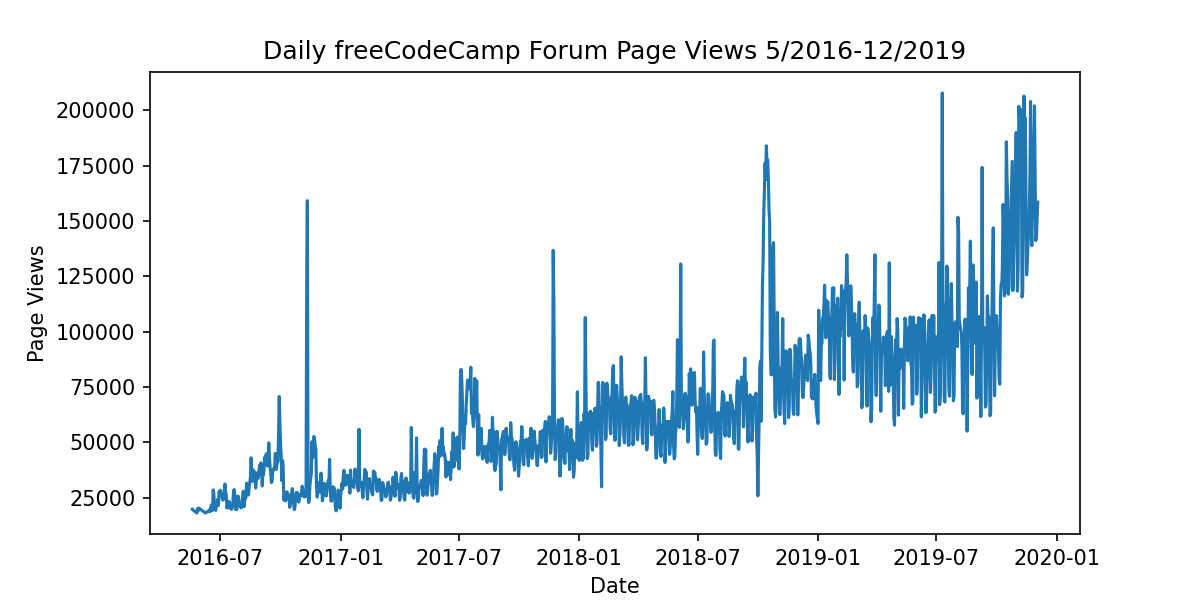
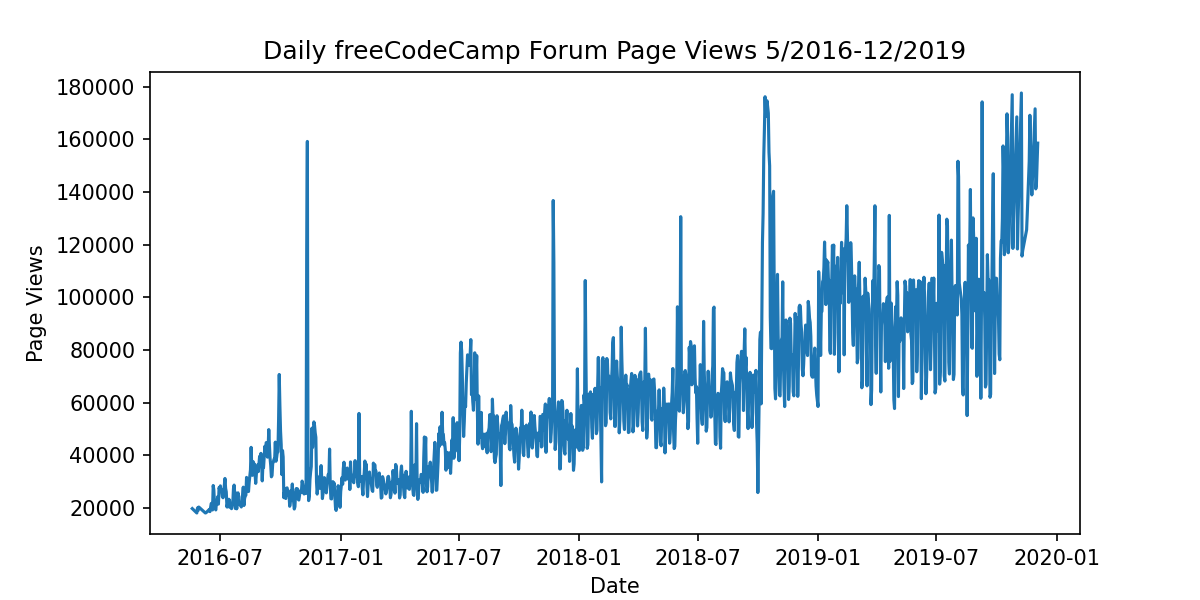
Fix: data clean ,line plot and bar plot suplots

diff --git a/page-view-time-series-visualizer/time_series_visualizer.py b/page-view-time-series-visualizer/time_series_visualizer.py
@@ -2,27 +2,29 @@ import matplotlib.pyplot as plt
 import pandas as pd
 import seaborn as sns
 from pandas.plotting import register_matplotlib_converters
+
 register_matplotlib_converters()
 
 # Import data (Make sure to parse dates. Consider setting index column to 'date'.)
 df = pd.read_csv("fcc-forum-pageviews.csv", parse_dates=["date"], index_col=0)
 
 # Clean data
-df = df.loc[(df["value"] >= df["value"].quantile(0.025)) &
-            (df["value"] <= df["value"].quantile(0.985))]
+df = df.loc[(df["value"] >= df["value"].quantile(0.025))
+            & (df["value"] <= df["value"].quantile(0.975))]
 
 
 def draw_line_plot():
     # Draw line plot
-    plt.figure(figsize=(8, 4), dpi=150)
-    plt.plot(df.index, df.value)
-    plt.xlabel("Date")
-    plt.ylabel("Page Views")
-    plt.title("Daily freeCodeCamp Forum Page Views 5/2016-12/2019")
+    fig, axes = plt.subplots(figsize=(8, 4), dpi=150)
+    sns.lineplot(data=df, x=df.index, y=df.value)
+
+    axes.set_xlabel("Date")
+    axes.set_ylabel("Page Views")
+    axes.set_title("Daily freeCodeCamp Forum Page Views 5/2016-12/2019")
 
     # Save image and return fig (don't change this part)
-    plt.savefig('line_plot.png')
-    return plt
+    fig.savefig('line_plot.png')
+    return fig
 
 
 def draw_bar_plot():
@@ -30,21 +32,28 @@ def draw_bar_plot():
     df_bar = df.copy()
     df_bar["year"] = pd.DatetimeIndex(df_bar.index).year
     df_bar["month"] = pd.DatetimeIndex(df_bar.index).month
-    df_bar = df_bar.groupby(["year", "month"], as_index=False).agg(
-        {"value": pd.Series.mean})
-    print(df_bar.head())
+    df_bar = df_bar.groupby(["year", "month"],
+                            as_index=False).agg({"value": pd.Series.mean})
+
     # Draw bar plot
-    plt.figure(figsize=(8, 8))
+    fig, axes = plt.subplots(figsize=(8, 8))
+    month_names = [
+        'January', 'February', 'March', 'April', 'May', 'June', 'July', 'August',
+        'September', 'October', 'November', 'December'
+    ]
 
-    fig = sns.barplot(data=df_bar, x=df_bar.year, y=df_bar.value,
-                      hue=df_bar.month, palette=sns.color_palette("tab10"))
+    sns.barplot(data=df_bar,
+                x=df_bar.year,
+                y=df_bar.value,
+                hue=df_bar.month,
+                palette=sns.color_palette("tab10"))
 
-    plt.xlabel("Years")
-    plt.ylabel("Average Page Views")
-    plt.legend(loc="upper left", title="Months")
+    axes.set_xlabel("Years")
+    axes.set_ylabel("Average Page Views")
+    axes.legend(loc="upper left", title="Months", labels=month_names)
 
     # Save image and return fig (don't change this part)
-    fig.figure.savefig('bar_plot.png')
+    fig.savefig('bar_plot.png')
     return fig
 
 
@@ -55,7 +64,25 @@ def draw_box_plot():
     df_box['year'] = [d.year for d in df_box.date]
     df_box['month'] = [d.strftime('%b') for d in df_box.date]
 
+    df_box_yearly = df_box.groupby("year").agg({"value": pd.Series.sum})
+    df_box_monthly = df_box.groupby("month").agg({"value": pd.Series.sum})
+
+    fig, axes = plt.subplots(figsize=(8, 6))
+    sns.boxplot(data=df_box_yearly, x=df_box_yearly.index,
+                y=df_box_yearly.value)
+
     # Draw box plots (using Seaborn)
+    axes.set_title("Year-wise Box Plot (Trend)")
+    axes.set_xlabel("Years")
+    axes.set_ylabel("Page Views")
+
+    sns.boxplot(data=df_box_monthly,
+                x=df_box_monthly.index,
+                y=df_box_monthly.value)
+
+    axes.set_title("Month-wise Box Plot (Seasonality)")
+    axes.set_xlabel("Months")
+    axes.set_ylabel("Page Views")
 
     # Save image and return fig (don't change this part)
     fig.savefig('box_plot.png')
